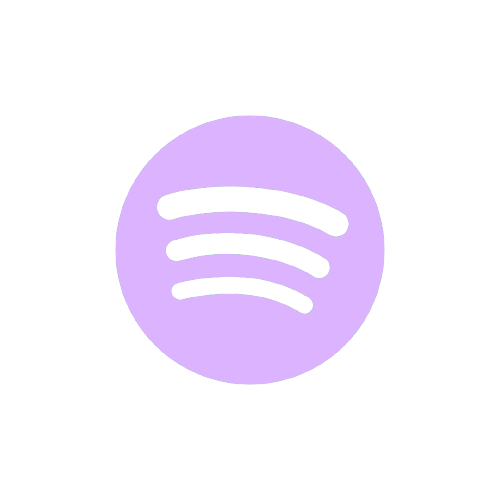
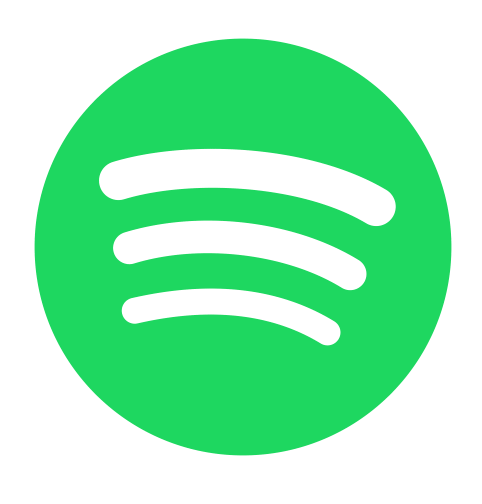
updated readme and added screenshots and changed spotify image

diff --git a/README.md b/README.md
@@ -1,24 +1,35 @@
-This is a [Next.js](https://nextjs.org/) project bootstrapped with [`create-next-app`](https://github.com/vercel/next.js/tree/canary/packages/create-next-app).
+# Spotify Now Playing 🎧
 
-## Getting Started
+A **Next.js** application that displays your currently playing track on Spotify in real-time, using the Spotify API. This project uses a progress bar to show the time remaining for the current track and updates dynamically as you listen to music.
 
-First, run the development server:
+## Features ✨
 
-```bash
-npm run dev
-# or
-yarn dev
-# or
-pnpm dev
-# or
-bun dev
-```
+- Displays the currently playing track on Spotify
+- Real-time track updates
+- Responsive design for mobile and desktop
+- Built with **Next.js**, **TypeScript**, **Tailwind CSS**
+- Utilizes a **progress bar** to visualize the current playback time of the track
 
-Open [http://localhost:3000](http://localhost:3000) with your browser to see the result.
+## Demo 🔗
 
-You can start editing the page by modifying `app/page.tsx`. The page auto-updates as you edit the file.
+[Live Demo](https://spotify-live-view.vercel.app/)
 
-This project uses [`next/font`](https://nextjs.org/docs/basic-features/font-optimization) to automatically optimize and load Inter, a custom Google Font.
+## Screenshots 📸
+
+<!-- Add some screenshots here if available -->
+
+![Spotify Now Playing](https://spotify-live-view.vercel.app/screenshot.jpg)
+
+## Tech Stack 🛠
+
+- **Next.js**: React framework with server-side rendering and static site generation
+- **TypeScript**: Typed JavaScript for safer and scalable development
+- **Tailwind CSS**: Utility-first CSS framework for styling the app
+- **Spotify API**: To fetch currently playing song details from your Spotify account
+
+## TypeScript Integration 📘
+
+This project is written in **TypeScript** for type safety and enhanced development experience. It uses TypeScript across the app to ensure strict type checking and maintainable code.
 
 ## Learn More
 
@@ -29,8 +40,20 @@ To learn more about Next.js, take a look at the following resources:
 
 You can check out [the Next.js GitHub repository](https://github.com/vercel/next.js/) - your feedback and contributions are welcome!
 
-## Deploy on Vercel
+## Deployment 📦
+
+You can easily deploy this project using any platform that supports **Next.js**.
 
 The easiest way to deploy your Next.js app is to use the [Vercel Platform](https://vercel.com/new?utm_medium=default-template&filter=next.js&utm_source=create-next-app&utm_campaign=create-next-app-readme) from the creators of Next.js.
 
 Check out our [Next.js deployment documentation](https://nextjs.org/docs/deployment) for more details.
+
+## Acknowledgements 🙏
+
+- [Spotify API](https://developer.spotify.com/documentation/web-api/)
+- [Next.js](https://nextjs.org/)
+- [Tailwind CSS](https://tailwindcss.com/)
+
+---
+
+Developed with ❤ by [Aayush Bharti](https://github.com/aayushbharti) 👨💻
